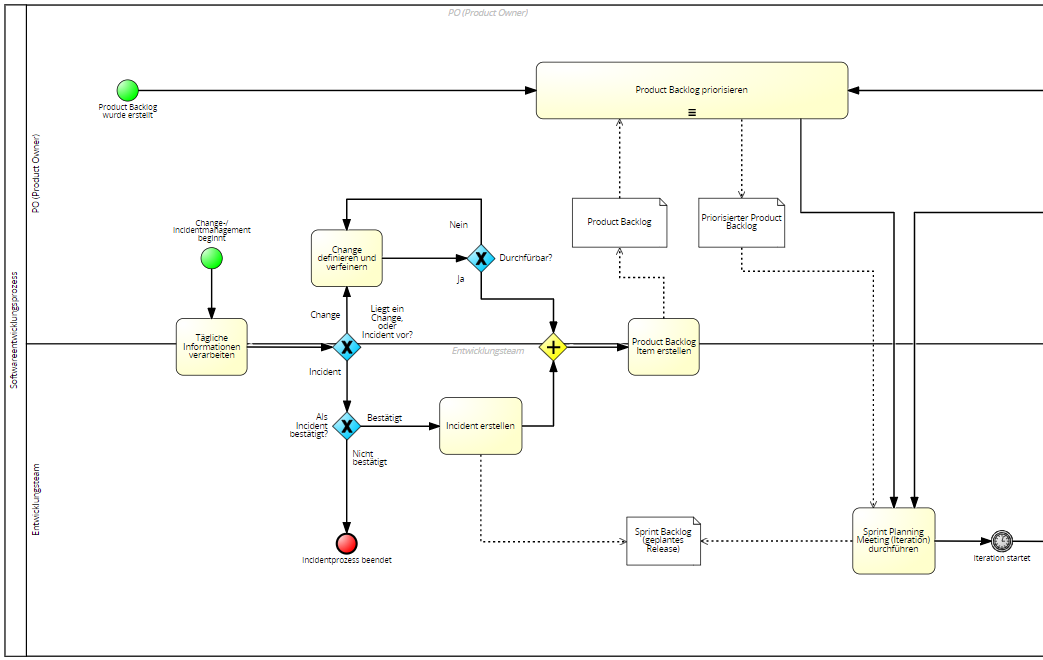
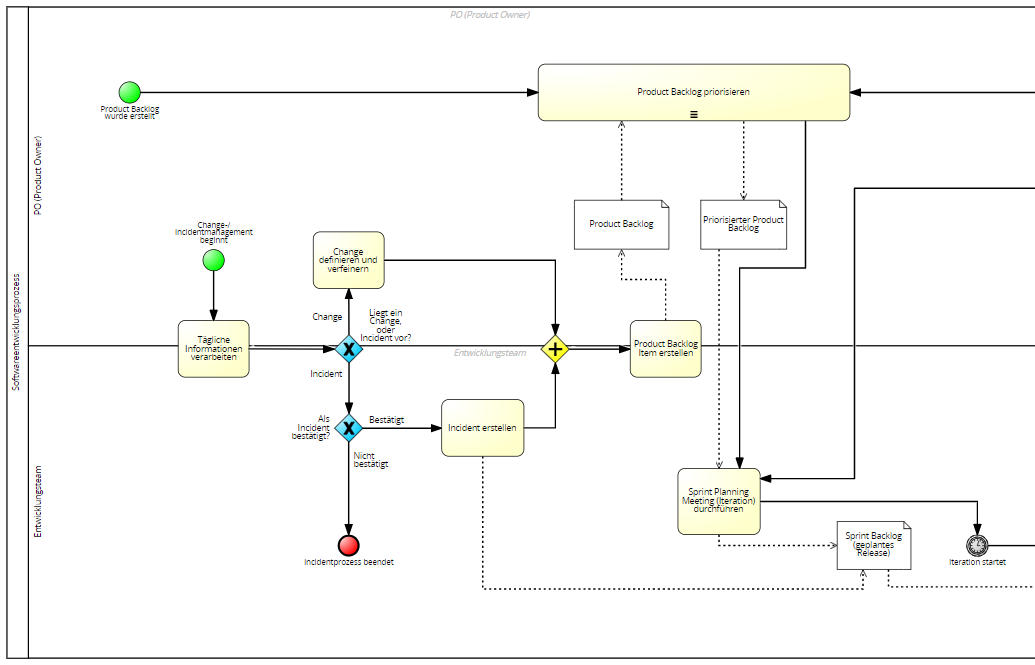
tbd

diff --git a/IST_IntegrationOSSDevOpsProdukt.tex b/IST_IntegrationOSSDevOpsProdukt.tex
@@ -3,10 +3,10 @@ Eine große Herausforderung bei der Modellierung des Softwareentwicklungsprozess
 \begin{figure}[p]
     \centering
     \includegraphics[angle=90, scale=0.6]{Bilder/IST-Prozess_neu.png}
-    \caption{Softwareentwicklungsprozess im IST-Zustand basierend auf dem HAF-Projekt}
+    \caption{Softwareentwicklungsprozess im IST-Zustand basierend auf dem internen msg-Projekt}
 \end{figure}
 
-Im Rahmen dieser Arbeit bildet die Grundlage des vorgestellten Prozesses, der Softwareentwicklungsprozess basierend auf dem HAF-Projekt innerhalb der msg systems ag, ab.
+Im Rahmen dieser Arbeit bildet die Grundlage des vorgestellten Prozesses, der Softwareentwicklungsprozess basierend auf dem internen Projekt innerhalb der msg systems ag, ab.
 
 Dieser Prozess beschreibt die Vorgehensweise und die darauf aufbauenden Aufgaben, die im Laufe der Entwicklung zu erbringen sind und an dem konkreten Projekt festgelegt wurden.
 
@@ -27,7 +27,7 @@ Zum besseren Verständnis wurde der Gesamtprozess in drei Teile (Abbildung 10 - 
 \begin{figure}[h]
     \centering
     \includegraphics[scale=0.5]{Bilder/IST-Prozess_first Part.png}
-    \caption{Erster Teil des Softwareentwicklungsprozess im IST-Zustand basierend auf dem HAF-Projekt}
+    \caption{Erster Teil des Softwareentwicklungsprozess im IST-Zustand basierend auf dem internen msg-Projekt}
 \end{figure}
 
 Der erste Startpunkt des Prozesses stellt die Erstellung des Product Backlogs durch den Product Owner dar, welches durchgängig priorisiert und innerhalb der Abbildung 10 dargestellt wird. 
@@ -40,7 +40,7 @@ Ist die Priorisierung erfolgt, startet die Iteration mit dem Sprint Planning Mee
 
 Hierbei wird abhängig von den verfügbaren Kapazitäten und den Ergebnissen des letzten Sprints entschieden, welche User Stories zuerst bearbeitet werden. 
 
-Sowohl die erstellten Incidents als auch die ausgewählten User Stories des Product Backlogs bilden den Sprint Backlog, welcher somit die geplanten Umsetzungen an Entwicklungen innerhalb des Releases darstellt.
+Sowohl die erstellten Incidents, die als sehr dringend gelten und sofort beseitigt werden müssen, als auch die ausgewählten User Stories des Product Backlogs bilden den Sprint Backlog, welcher somit die geplanten Umsetzungen an Entwicklungen innerhalb des Releases darstellt.
 
 Parallel hierzu beginnt der Change-/Incidentprozess, bei dem zunächst die täglichen Informationen verarbeitet werden. 
 
@@ -70,37 +70,33 @@ Obwohl der Change- und Incidentprozess vom Product Owner begonnen wird, ist dies
 
 Der Incidentprozess wird anhand des täglichen Monitorings vom Entwicklerteam durchgeführt. 
 
-Nach der Verarbeitung der täglichen Informationen, werden die auftretenden Bugs zunächst in Incident und Changeprozesses unterschieden, da beide Prozesse werden unterschiedlich behandelt werden.
+Nach der Verarbeitung der täglichen Informationen, werden die auftretenden Bugs zunächst in Incident und Changeprozesses unterschieden, da beide Prozesse unterschiedlich behandelt werden.
 
-Innerhalb des Changeprozesses werden die Änderungen definiert und verfeinert. 
+Innerhalb des Changeprozesses werden die Änderungen definiert und verfeinert und die Anforderungen festgelegt, die entwickelt werden müssen. 
 
-Nachdem die Änderung geprüft wurde, muss entschieden werden, ob die Änderung durchführbar also entwickelt werden kann. 
+Das Ergebnis fließt in den Product Backlog ein, bei dem die Items wiederrum priorisiert werden. 
 
-Ist dies der Fall wird die Änderung dokumentiert und fließt in den Product Backlog ein, bei dem die Items wiederrum priorisiert werden. 
+Sollte der Bug als Incident bestätigt werden, so wird dieser zunächst erstellt. 
 
-Sollte der Change nicht durchzuführen sein, müssen die Definitionen und Verfeinerungen angepasst werden.
-
-Sollte der Bug als Incident bestätigt werden, so wird dieser zunächst erstellt und zunächst in das Sprint Backlog übertragen. 
+Sollte es sich bei dem erstellten Incident um ein schwerwiegendes Problem handeln, der sofort beseitigt werden muss wird dieser zunächst in das Sprint Backlog übertragen.
 
 Dies ist wichtig, da durch dieses Vorgehen Auskunft während des nächsten Sprint darüber gegeben werden kann, wie hoch die Anzahl der Fehlermeldungen oder Störungen aufgrund ausgefallener Systeme ist und demnach eine Anpassung erforderlich macht. 
 
-Sollte ein schwerwiegendes Problem auftreten, welches eine Codeänderung benötigt, wird nach der Erstellung des Incidents, dieser als ein Item in der überarbeitete Product Backlog eingetragen. 
+Sollte ein Problem auftreten, welches eine Codeänderung benötigt aber nicht als dringlich gilt, wird nach der Erstellung des Incidents, dieser als ein Item in der überarbeitete Product Backlog eingetragen. 
 
 Falls die vermeitliche Incident nicht bestätigt wird, wird dieser vermerkt und geschlossen, wodurch der Incidentprozess ab diesem Zeitpunkt als geschlossen gilt. \\ 
 
 \begin{figure}[h]
     \centering
-    \includegraphics[scale=0.5]{Bilder/IST-Prozess_second Part.png}
-    \caption{Zweiter Teil des Softwareentwicklungsprozess im IST-Zustand basierend auf dem HAF-Projekt}
+    \includegraphics[scale=0.6]{Bilder/IST-Prozess_second Part.png}
+    \caption{Zweiter Teil des Softwareentwicklungsprozess im IST-Zustand basierend auf dem internene msg-Projekt}
 \end{figure}
 
-Wie in Abbildung 11 zu erkennen ist, startet die Iteration zunächst mit der Überprüfung, ob Codeänderungen notwendig sind. 
+Wie in Abbildung 11 zu erkennen ist, startet die Iteration nach dem durchgeführten Sprint Planning Meeting, wodurch der Implmentierungsvorgang für die jeweiligen Sprint Backlog Items beginnen kann. 
 
-Dies kann sich auf Änderungen eines vorhandenen Codes oder auf eine Neuimplementierung beziehen. 
+In diesem Rahmen sind Codeänderungen notwendig, die sich auf vorhandenen Code oder eine Neuimplementierung beziehen können. 
 
-Falls keine Änderungen notwendig sind, bleibt das entsprechende Item im priorisierten Product Backlog und wird im Release auf seine Vollständigkeit und Richtigkeit überprüft.
-
-Sollten Codeänderungen durchgeführt werden, kann der entsprechende Implmentierungsvorgang für das Backlog Item beginnen. 
+Je nach Backlog Item entscheidet der Entwickler, welche Maßnahmen durchgeführt werden müssen und dokummentiert etwaige Fehler, die sich während der Entwicklung ergeben können.  
 
 Nachdem der Pull-Request für das Commit durchgeführt wurde, werden mehrere Aufgaben parallel erledigt. 
 
@@ -120,11 +116,13 @@ Sobald alle Änderungen erfolgreich implementiert worden sind, werden diese auf 
 
 \begin{figure}[h]
     \centering
-    \includegraphics[scale=0.5]{Bilder/IST-Prozess_third Part.png}
-    \caption{Dritter Teil des Softwareentwicklungsprozess im IST-Zustand basierend auf dem HAF-Projekt}
+    \includegraphics[scale=0.6]{Bilder/IST-Prozess_third Part.png}
+    \caption{Dritter Teil des Softwareentwicklungsprozess im IST-Zustand basierend auf dem internen msg-Projekt}
 \end{figure}
 
-Nachdem das Release auf seine Vollständigkeit und Richitgkeit überprüft worden ist, wird dieses im Review vorgestellt. 
+Nachdem das Mergen erfolgreich durchgeführt wurde, wird das Release auf seine Vollständigkeit und Richtigkeit überprüft und im Review vorgestellt. 
+
+Die Vorstellung erfolgt ebenfalls durch den entsprechenden Entwickler, der die jeweilige Entwicklung den jeweligen Stakeholdern präsentiert. 
 
 Ab diesem Zeitpunkt endet die Iteration. 
 
@@ -133,7 +131,6 @@ Werden weitere Anpassungen benötigt, müssen diese aufgearbeitet werden und fli
 Sind keine Änderungen notwendig, wird das Release bereitgestellt. 
 
 Das Projekt endet sobald das Product Backlog leer ist.
-
 
 % \paragraph{Agility Master}
 

diff --git a/SOLL_IntegrationOSSDevOpsProdukt.tex b/SOLL_IntegrationOSSDevOpsProdukt.tex
@@ -7,12 +7,10 @@ Auch wurde ausschließlich die Rolle des Entwicklerteams, mit einem entsprechend
 \begin{figure}[p]
     \centering
     \includegraphics[angle=90, scale=0.5]{Bilder/SOLL-Prozess.png}
-    \caption{Einbindung von OSS in den Softwareentwicklungsprozess basierend auf dem HAF-Projekt}s
+    \caption{Einbindung von OSS in den Softwareentwicklungsprozess basierend auf dem internen msg-Projekt}
 \end{figure}
 
-Da zu dem Zeitpunkt der Nutzung von OSS die Projektstruktur bereits besteht und das Product Backlog ebenfalls erstellt wurde, bildet den Anfang des DevOps-Prozesses nun die Anpassung des priorisierten Product Backlogs.
-
-Nachdem das Sprint Planning Meeting durchgeführt worden ist, kann die Iteration basierend auf den Anforderungen aus dem Sprint Backlog, gestartet werden.\\ 
+Da zu dem Zeitpunkt der Nutzung von OSS die Projektstruktur bereits besteht und das Product Backlog ebenfalls erstellt wurde, bildet den Anfang des Softwareentwicklungsprozesses nun die Anpassung des priorisierten Product Backlogs.
 
 \begin{figure}[h]
     \centering
@@ -20,16 +18,16 @@ Nachdem das Sprint Planning Meeting durchgeführt worden ist, kann die Iteration
     \caption{Erster Teil des Softwareentwicklungsprozess im SOLL-Zustand basierend auf dem HAF-Projekt}
 \end{figure}
 
-Wie auch bei dem IST-Zustand muss sich zunächst die Frage gestellt werden, ob Codeänderungen durchgeführt werden müssen, unabhängig ob sich die Änderungen auf einen vorhandenen Code oder auf eine Neuimplentierung beziehen. 
+Nachdem das Sprint Planning Meeting durchgeführt worden ist, kann die Iteration basierend auf den Anforderungen aus dem Sprint Backlog, gestartet werden, wodurch der Implmentierungsvorgang für die jeweiligen Sprint Backlog Items beginnen kann.
 
-Sollten Codeänderungen vorgenommen werden, wird der Implementierungsvorgang für das Backlog Item gestartet. 
+In diesem Rahmen sind Codeänderungen notwendig, die sich auf vorhandenen Code oder eine Neuimplementierung beziehen können.
 
 Ab diesem Zeitpunkt setzt die Nutzung von OSS die Prozessänderungen in Gang.
 
 \begin{figure}[h]
     \centering
     \includegraphics[scale=0.5]{Bilder/SOLL-Prozess_second Part.png}
-    \caption{Zweiter Teil des Softwareentwicklungsprozess im SOLL-Zustand basierend auf dem HAF-Projekt}
+    \caption{Zweiter Teil des Softwareentwicklungsprozess im SOLL-Zustand basierend auf dem internene msg-Projekt}
 \end{figure}
 
 Um präventiv maßgebliche Konsequenzen durch die Nutzung von OSS zu vermeiden, sollten sich die betreffenden Entwickler die Frage stellen, ob tatsächliche eine neue Software oder Softwarekomponete in das Projekt eingebunden werden muss. 
@@ -38,7 +36,9 @@ Falls dies der Fall ist, muss zunächst ein initaler OSS-Check durchgeführt wer
 
 Dieser dient dazu, das Lizenzmodell der verwendeten OSS-Komponete manuell zu überprüfen und diese mit den 'ungefährlichen' Lizenzmodellen zu vergleichen. 
 
-Dies hat zum Vorteil, dass der Entwickler bereits vor einer langen Implementierung eine Aussage darüber treffen kann, ob sich aus Sicht der Lizenzmodelle eine Verwendung eignet oder ob ein Lizenzmodell vorliegt, welches zumindest ein beschränktes Copyleft aufweist. 
+Dies hat zum Vorteil, dass der Entwickler bereits vor einer langen Implementierung eine Aussage darüber treffen kann, ob sich aus Sicht der Lizenzmodelle eine Verwendung eignet oder ob ein Lizenzmodell vorliegt, welches zumindest ein beschränktes Copyleft aufweist.
+
+Die entsprechende manuelle Checkliste wird im Kapitel 3.3 ausführlich behandelt. 
 
 Sollte die verwendete OSS-Komponete ein derartiges Lizenzmodell aufweisen, hat der Entwickler ausreichend Zeit, nach eine 'ungefährlichen' Alternative zu suchen.  
 
@@ -46,9 +46,9 @@ Wird die OSS-Kompoente letztlich verwendet, wird ein Pull-Request für ein Commi
 
 An diesem Punkt befindet sich der Entwickler ebenfalls, wenn keine neue OSS genutzt wird. 
 
-Anschließend hierzu werden wie im regelmäßigen Prozess, Unit-Tests und Codeanalysen durchgeführt und diese vom Reviewer bestätigen lassen.
+Anschließend hierzu werden wie im regelmäßigen Prozess, Unit-Tests und Codeanalysen durchgeführt.
 
-Gleichzeitig zu diesen Schritten muss eine neue Anpassung des Prozesses im Hinblick auf die Verwendung von OSS als ein automatisierten OSS-Check durchgeführt werden.
+Gleichzeitig zu diesen Schritten muss erneut eine neue Anpassung des Prozesses im Hinblick auf die Verwendung von OSS als ein automatisierten OSS-Check durchgeführt werden.
 
 Während bei einer Verwendung von neuer OSS die Lizenzmodelle zeitnah überprüft werden können, kann es Fälle geben, in denen Versionen einer bereits implementierten OSS-Komponete geändert werden und daraus eine Verschiebung der betreffenden Lizenzmodelle stattfinden kann. 
 
@@ -66,24 +66,24 @@ Durch die zeitnahe Übermittlung der notwendigen Informationen wird die Transpar
 
 Die Automatisierung des OSS-Checks entspricht sowohl der Kultur als auch den Methoden nach den DevOps-Prinzipien.
 
-Sollte die OSS-Komponete kein schwieriges Copyleft aufweisen, wird dieser Zustand zunächst vom Reviewer bestätigt und kann dann als Backlog Item erfolgreich implementiert und auf das Master Branch gemergt werden. 
+Sollte die Überprüfung mittels des automatisierten OSS-Checks kein schwieriges Copyleft finden, wird das Commit, wie im gängigen Softwareentwicklungsprozess, zunächst vom Reviewer bestätigt und kann dann als Backlog Item erfolgreich implementiert und auf das Master Branch gemergt werden. 
 
-Falls dies nicht der Fall ist, muss die OSS-Thematik zunächst geklärt werden.
+Falls dies nicht der Fall ist und eine OSS-Komponete ein nicht gewünschtes Lizenzmodell aufweisen, muss die OSS-Thematik zunächst geklärt werden.
 
 Sollte die entstandene Problematik nicht behoben werden, so muss der Projektleiter informiert werden und die Dev-Beteiligung endet zunächst an dieser Stelle. 
 
-Kann die OSS-Thematik gelöst werden, muss diese zunächst überarbeitet werden. 
+Kann das Problem im Hinblick auf die OSS-Komponete behoben werden, muss diese zunächst überarbeitet werden. 
 
 Dies reicht von einem Rückgang auf eine alte Version, wobei an dieser Stelle die gesamte Funktionalität gewährleistet werden muss, bis zur Verwerfung der entsprechenden Kompoente durch den Entwickler. 
 
 Dieser Aufgabenbereich kann mehrere Unteraufgaben aufweisen und die Lösung ist demnach spezifisch auf die Komponete und deren Entwicklung ausgelegt. 
 
-Nach der Überarbeitung erfolgt eine erneute Bestätigung durch einen Reviewer, zum Ziel, die Kompoente erfolgreich auf den Master Branch zu mergen. 
+Nach der Überarbeitung erfolgt eine Bestätigung durch einen Reviewer, zum Ziel, die Kompoente erfolgreich auf den Master Branch zu mergen. 
 
 \begin{figure}[h]
     \centering
     \includegraphics[scale=0.5]{Bilder/SOLL-Prozess_third Part.png}
-    \caption{Dritter Teil des Softwareentwicklungsprozess im SOLL-Zustand basierend auf dem HAF-Projekt}
+    \caption{Dritter Teil des Softwareentwicklungsprozess im SOLL-Zustand basierend auf dem internen msg-Projekt}
 \end{figure}
 
 Sobald das Release auf seine Vollständigkeit und Richtigkeit überprüft worden ist, wird zur erneuten Kontrolle der Lizenzmodelle ein Report erstellt. 

diff --git a/ProofofConcept.tex b/ProofofConcept.tex
@@ -1,0 +1,30 @@
+Nachdem sowohl der theoretische Rahmen als auch der angepasste Prozess im Hinblick auf die Verwendung von OSS, ausführlich beschrieben worden sind, wird innerhalb dieses Kapitels der Proof of Concept (PoC) näher beschrieben. 
+
+Grundsätzlich bestimmt der PoC die Machtbarkeit einer Idee, also ob die Idee wie geplant funktioniert und in die Realität umgesetzt werden kann, bevor für diese Ressourcen auf Produktionsebene verschwendet werden.  
+
+In dem Rahmen dieser Arbeit stellt der PoC einen Prototypen dar, der die prinzipelle Durchführbarkeit einer automatisierten Checkliste aufzeigt.
+
+Obwohl der PoC nicht immer mit einem Prototypen gleichzusetzten ist, werden in diesem Fall beide Begriffe gleichermaßen behandelt. 
+
+Die automatisierte Checkliste soll dabei als eine reduzierte Version des Endprodukts umgesetzt werden, die auf ihre Nutzbarkeit und Funktionalität getestet und bewertet werden kann. 
+
+Hierbei wird der Prototyp nicht alle Merkmale und Funktionen eines marktreifen Produkts aufweisen, allerdings wird einerseits die generelle Nutzbarkeit in Abhängigkeit der bestehenden Systemumgebung und andererseits die Demonstration der entwickelten Funktionalitäten zum Zweck einer generellen Realisierbarkeit aufgezeigt. 
+
+Gleichzeitig dient der PoC als eine Basis für weitere Weiterentwicklungsmöglichkeiten. 
+
+Da die direkte Entwicklung innerhalb eines aktiven Projekts große Herausforderungen und Probleme mit sich bringen kann, wurde der Prototyp mit den Kollegen des Projektes bei der msg systems ag, ausgearbeitet und innerhalb dieser Arbeit festgehalten. 
+
+Dies hatte den Vorteil, dass unvorhersehbare Problemfelder berücksichtigt wurden und der Prototyp direkt in die Systemlandschaft eingebunden werden konnte, ohne den gesamten Projektablauf in Mitleidenschaft zu ziehen.
+
+Der PoC wurde mit der Skizzierung der grundsätzlichen Idee begonnen. 
+
+Wesentliche Elemente waren hierbei die momentane Problembeschreibung als auch die darauf aufbauende Lösung, die umgesetzt werden soll. 
+
+Die Ausarbeitung als auch der Umfang des zugrundeliegenden Problems wurden zunächst durch die Gespräche mit mehreren Teammitgliedern und durch die Teilnahme an Teammeetings anfänglich skizziert.
+
+In diesem Rahmen wurde \textit{die fehlende Bewertung und Prüfung bei der Verwendung von OSS} als das wesentliche Problem identifiziert, welches mithilfe einer automatisierten Überprüfung gelöst werden sollte.  
+
+Die weitere Anforderungsdefinition, Gestaltung und Einbeziehung erfolgte im Zuge der Prozessmodellierung und der dazugehörigen Anpassung des Soll-Prozesses und wurde in vier grundlegende Schritte unterteilt.
+
+
+

diff --git a/UmfangSzenarien.tex b/UmfangSzenarien.tex
@@ -10,7 +10,7 @@ Bei dem ersten Szenario beschränkt sich die Nutzung von OSS ausschließlich auf
 
 Dementsprechend soll dieses Szenario verdeutlichen, dass die Verwendung von OSS ausschließlich als Werkzeug fungiert und keine Abhängigkeit zwischen der Funktionalität und der verwendeten OSS-Komponente stattfindet. 
 
-Würde die OSS wegfallen, wäre die Funktionalität des HAF-Projekts weiterhin gewährleistet. 
+Würde die OSS wegfallen, wäre die Funktionalität des Projekts weiterhin gewährleistet. 
 
 Ferner werden keine Kopien des Original-Quellcodes innerhalb eines Repositorys hochgeladen, sowohl manuell als auch mittels Skript. 
 
@@ -26,7 +26,7 @@ Damit können wiederverwendbare Software-Komponenten, welche generische Funktion
 
 Zweck des zweiten Szenarios ist es, die OSS als reine Bibliothek zu verwenden und daher vollständig unverändert beizubehalten. 
 
-Obwohl die Bibliothek ausschließlich als Referenz verwendet wird, werden Kopien des originalen Quellcodes der Bibliothek innerhalb eines Repositorys hochgeladen.
+Obwohl die Bibliothek ausschließlich unmodifiziert verwendet wird, ist sie Teil der ausführbaren Datei, welche beispielsweise über ein Artefakt-Feed bereitgestellt wird. 
 
 Es entsteht demnach eine direkte Verbindung zu einer lizensierten OSS. 
 
@@ -44,6 +44,6 @@ Ab diesem Zeitpunkt ist die Berücksichtigung der Lizenzmodelle essentiell, wodu
 
 Um weitgreifende Folgen zu vermeiden, sollten in diesem Szenario auschließlich OSS verwendet werden, die kein Copyleft oder teilweise ein beschränktes Copyleft aufweisen.
 
-Jedes File, welches modifiziert oder neu erstellt wurde, muss zur Kennzeichnung einer Modifikation mit einem Header-Kommentar versehen werden.
+Jede Datei, welches modifiziert oder neu erstellt wurde, muss zur Kennzeichnung einer Modifikation mit einem Header-Kommentar versehen werden.
 
 %Frage an Daniel: Szenarios grafisch darstellen?????

diff --git a/MasterThesis_CA.tex b/MasterThesis_CA.tex
@@ -9,6 +9,7 @@ tmargin={2.5cm},bmargin = {2.5cm}]{geometry}
 \usepackage{graphicx}
 \usepackage{lscape}
 \usepackage{longtable} 
+\usepackage{booktabs}
 \input{Makros}
 
 \begin{document}
@@ -113,26 +114,22 @@ In diesem Rahmen wurde zunächst der derzeitige IST-Zustand mittels BPMN \dwi{is
 \subsection{Manuelle Überprüfung basierend auf einer Checkliste}
 \input{ManuelleCheckliste.tex}
 
-\subsection{Vorteile der Integration}
-\input{VorteileIntegration.tex}
-
-\subsection{Wesentliche Hindernisse}
-\input{HindernissIntegration.tex}
-
-
 \section{Proof of Concept}
 \input{ProofofConcept.tex}
 
-\subsection{Vergleich Open-Source-Scanner}
-
-\subsection{Internes Plugin}
-
-\subsubsection{Konzeption}
-
+\subsection{Anforderungsdefinition}
+\input{Anforderungsdefinition.tex}
+%Hier das Plugin von Michael Haas erklären und warum es nicht geworden ist. 
+% hier der Vergleich von verschiedenen Open-Source-Scannern 
+\subsection{Konzeption}
+\input{Konzeption.tex}
+%Maven Vorstellung und deren funktionsweise (UML)
 %UML-diagramm zur besseren Darstellung
-\subsubsection{Implementierung}
-
-\subsubsection{Evaluation}
+\subsection{Implementierung}
+\input{Implementierung.tex}
+% Entwicklung starten und die Funktionalitäten beschreiben 
+\subsection{Evaluation}
+\input{Evaluation.tex}
 
 %Automatisierter OSS-Check
 %Möglichkeiten, die bestehen, zur automatisierten Einbindung 
@@ -159,11 +156,4 @@ In diesem Rahmen wurde zunächst der derzeitige IST-Zustand mittels BPMN \dwi{is
 
 \end{document}
 
-
-%Bilder einfügen
-%\begin{figure}[h]
-    %\centering
-    %\includegraphics[scale=0.7]{Bilder/what-is-foss}
-    %\caption{Ein Beispiel}
-%\end{figure}
 

diff --git a/Anforderungsdefinition.tex b/Anforderungsdefinition.tex
@@ -1,0 +1,5 @@
+Als ersten Schritt wurde anhand der Problembeschreibung die darauf aufbauenden Anforderungen definiert. 
+
+In diesem Rahmen wurden die technischen Spezifikationen, die die automatisierte Checkliste aufweisen muss, festgelegt. 
+
+Im Laufe des PoC wurden die Anforderungen weiter präzisiert.
